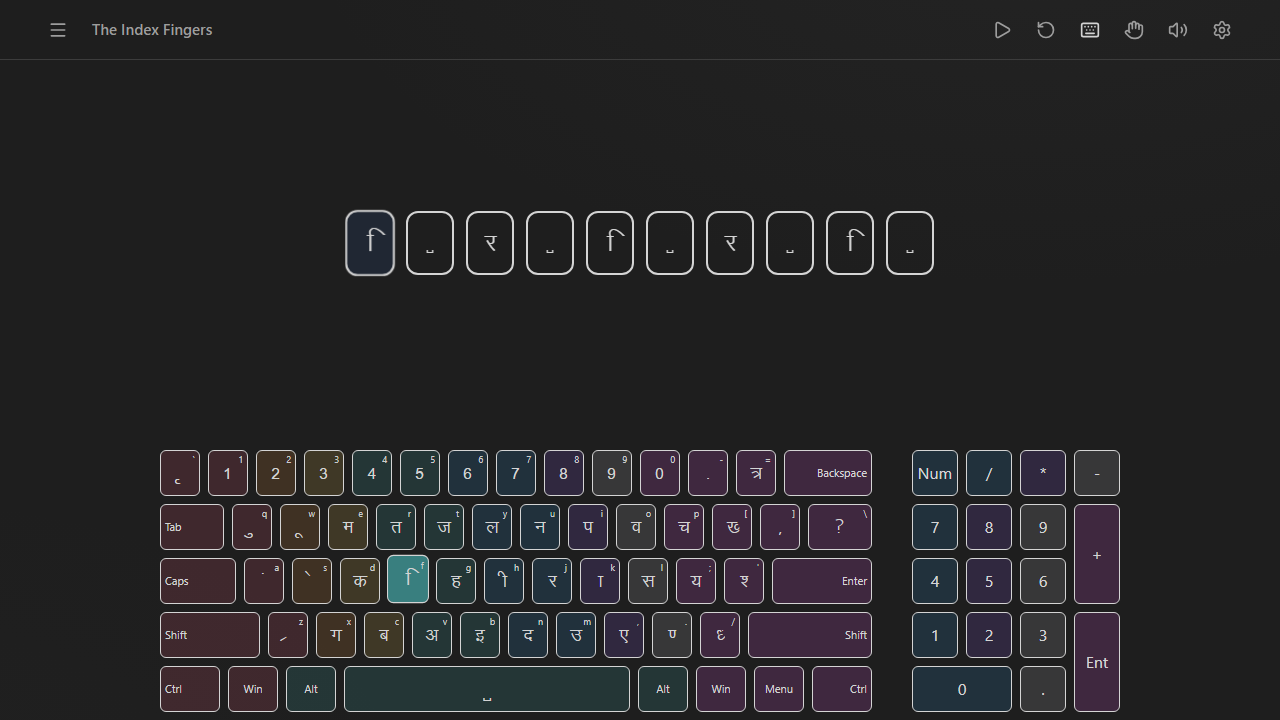
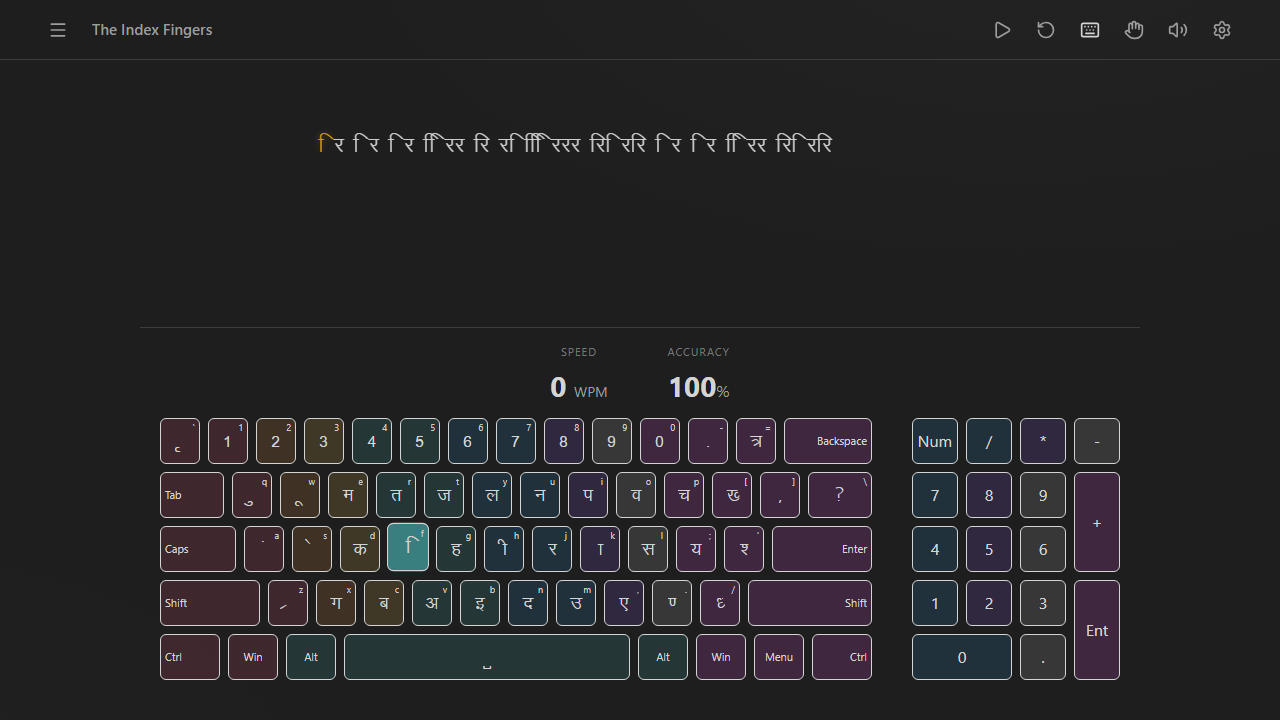
feat: refine typing area dimensions, timer, and layout

diff --git a/src/App.jsx b/src/App.jsx
@@ -476,7 +476,7 @@ const SettingsView = () => {
 };
 
 const TypingSession = ({ lesson, onComplete, onNext, onPrev, onRestart, hasNext, hasPrev, onClose }) => {
-  const { engineState, stats, altCodeState } = useTypingEngine(lesson.text, krutidev010Layout);
+  const { engineState, stats, altCodeState, isIdle } = useTypingEngine(lesson.text, krutidev010Layout);
   const storeState = useAppStore();
   
   const [soundMenuOpen, setSoundMenuOpen] = React.useState(false);
@@ -584,34 +584,37 @@ const TypingSession = ({ lesson, onComplete, onNext, onPrev, onRestart, hasNext,
       </div>
 
       {/* Main Content Area */}
-      <div style={{ flex: 1, display: 'flex', flexDirection: 'column', alignItems: 'center', justifyContent: 'center', padding: '40px', minHeight: '400px' }} onClick={() => { setSoundMenuOpen(false); setSettingsMenuOpen(false); }}>
+      <div style={{ flex: 1, display: 'flex', flexDirection: 'column', alignItems: 'center', justifyContent: 'center', padding: '20px 40px 10px', minHeight: '300px' }} onClick={() => { setSoundMenuOpen(false); setSettingsMenuOpen(false); }}>
         
         {lesson?.type === 'box_practice' ? (
           <BoxExercise engineState={engineState} />
         ) : (
-          <div style={{ maxWidth: '800px', width: '100%', display: 'flex', justifyContent: 'center' }}>
-            <TypingArea engineState={engineState} />
-          </div>
-        )}
-         
-        {/* Live Speed + Accuracy inline */}
-        {lesson?.type !== 'box_practice' && (
-          <div style={{ display: 'flex', gap: '60px', marginTop: '60px', color: 'var(--text-muted)', fontFamily: 'var(--font-ui)' }}>
-             <div style={{ display: 'flex', flexDirection: 'column', alignItems: 'center', gap: '4px' }}>
-                <span style={{ textTransform: 'uppercase', letterSpacing: '1px', fontSize: '11px', opacity: 0.7 }}>Speed</span>
-                <span style={{ fontSize: '28px', color: 'var(--text-primary)', fontWeight: 'bold' }}>{stats.wpm} <span style={{ fontSize: '14px', color: 'var(--text-muted)', fontWeight: 'normal' }}>WPM</span></span>
-             </div>
-             <div style={{ display: 'flex', flexDirection: 'column', alignItems: 'center', gap: '4px' }}>
-                <span style={{ textTransform: 'uppercase', letterSpacing: '1px', fontSize: '11px', opacity: 0.7 }}>Accuracy</span>
-                <span style={{ fontSize: '28px', color: 'var(--text-primary)', fontWeight: 'bold' }}>{stats.accuracy}<span style={{ fontSize: '16px', color: 'var(--text-muted)', fontWeight: 'normal' }}>%</span></span>
-             </div>
+          <div style={{ maxWidth: '1000px', width: '100%', display: 'flex', flexDirection: 'column', alignItems: 'center' }}>
+            <div style={{ width: '100%' }}>
+              <TypingArea engineState={engineState} isIdle={isIdle} />
+            </div>
+            
+            {/* Border line */}
+            <div style={{ width: '100%', height: '1px', background: 'var(--border-soft)', marginTop: '20px', marginBottom: '15px' }} />
+            
+            {/* Live Speed + Accuracy inline */}
+            <div style={{ display: 'flex', gap: '60px', color: 'var(--text-muted)', fontFamily: 'var(--font-ui)' }}>
+               <div style={{ display: 'flex', flexDirection: 'column', alignItems: 'center', gap: '4px' }}>
+                  <span style={{ textTransform: 'uppercase', letterSpacing: '1px', fontSize: '11px', opacity: 0.7 }}>Speed</span>
+                  <span style={{ fontSize: '28px', color: 'var(--text-primary)', fontWeight: 'bold' }}>{stats.wpm} <span style={{ fontSize: '14px', color: 'var(--text-muted)', fontWeight: 'normal' }}>WPM</span></span>
+               </div>
+               <div style={{ display: 'flex', flexDirection: 'column', alignItems: 'center', gap: '4px' }}>
+                  <span style={{ textTransform: 'uppercase', letterSpacing: '1px', fontSize: '11px', opacity: 0.7 }}>Accuracy</span>
+                  <span style={{ fontSize: '28px', color: 'var(--text-primary)', fontWeight: 'bold' }}>{stats.accuracy}<span style={{ fontSize: '16px', color: 'var(--text-muted)', fontWeight: 'normal' }}>%</span></span>
+               </div>
+            </div>
           </div>
         )}
       </div>
       
       {/* Keyboard Area */}
       {storeState.showVirtualKeyboard && (
-        <div style={{ paddingBottom: '40px', display: 'flex', justifyContent: 'center', flexShrink: 0 }}>
+        <div style={{ paddingBottom: '20px', display: 'flex', justifyContent: 'center', flexShrink: 0 }}>
            <VirtualKeyboard layout={krutidev010Layout} engineState={engineState} altCodeState={altCodeState} />
         </div>
       )}

diff --git a/src/components/TypingArea.jsx b/src/components/TypingArea.jsx
@@ -2,7 +2,7 @@ import React, { useRef, useEffect } from 'react';
 import { motion } from 'framer-motion';
 import { useAppStore } from '../store/useAppStore';
 
-const TypingArea = ({ engineState }) => {
+const TypingArea = ({ engineState, isIdle }) => {
   const store = useAppStore();
   const { fontSize, showVirtualKeyboard, textAlign } = store;
   const activeCharRef = useRef(null);
@@ -75,6 +75,7 @@ const TypingArea = ({ engineState }) => {
                 ref={isActive ? activeCharRef : null}
                 style={{
                   ...styles.char,
+                  position: 'relative',
                   color: isActive ? '#eab308' : getCharColor(statusClass),
                   textShadow: isActive ? '0 0 8px rgba(250, 204, 21, 0.4)' : 'none',
                   backgroundColor: (isActive && char === ' ') ? 'rgba(250, 204, 21, 0.4)' : 'transparent',
@@ -85,6 +86,12 @@ const TypingArea = ({ engineState }) => {
                 animate={isError ? { x: [-2, 2, -2, 2, 0] } : (isActive ? { opacity: [1, 0.8, 1] } : {})}
                 transition={isError ? { duration: 0.3 } : (isActive ? { repeat: Infinity, duration: 1 } : {})}
               >
+                {isActive && isIdle && (
+                  <div style={{ position: 'absolute', bottom: '100%', left: '50%', transform: 'translateX(-50%)', marginBottom: '10px', background: 'var(--accent-blue)', color: '#fff', padding: '6px 12px', borderRadius: '6px', fontSize: '14px', fontWeight: 'bold', whiteSpace: 'nowrap', zIndex: 10, boxShadow: '0 4px 12px rgba(0,0,0,0.3)' }}>
+                    Start Typing
+                    <div style={{ position: 'absolute', top: '100%', left: '50%', transform: 'translateX(-50%)', borderTop: '6px solid var(--accent-blue)', borderLeft: '6px solid transparent', borderRight: '6px solid transparent' }} />
+                  </div>
+                )}
                 {char === ' ' ? '\u00A0' : char === '\n' ? '↵\n' : char}
               </motion.span>
             );
@@ -111,7 +118,10 @@ const TypingArea = ({ engineState }) => {
         className="no-scrollbar" 
         style={{
           ...styles.textContainer,
-          maxHeight: showVirtualKeyboard ? '160px' : '320px',
+          height: '6em', // 4 lines if line-height is 1.5em
+          lineHeight: '1.5em',
+          overflowY: 'hidden',
+          padding: '4px',
           textAlign: textAlign || 'center'
         }}
       >

diff --git a/src/hooks/useTypingEngine.js b/src/hooks/useTypingEngine.js
@@ -7,6 +7,7 @@ import { altCodesMap } from '../core/altCodesMap';
 export const useTypingEngine = (text, layout) => {
   const [engineState, setEngineState] = useState(null);
   const [stats, setStats] = useState({ wpm: 0, accuracy: 100, timeInSeconds: 0 });
+  const [isIdle, setIsIdle] = useState(false);
   const engineRef = useRef(null);
   const { soundEffects, errorSounds } = useAppStore();
 
@@ -16,6 +17,7 @@ export const useTypingEngine = (text, layout) => {
     
     engine.onStateChange = (state) => {
       setEngineState(state);
+      setIsIdle(false);
       if (state.status === 'running' || state.status === 'finished') {
         setStats(getTypingStats(state));
       }
@@ -40,10 +42,16 @@ export const useTypingEngine = (text, layout) => {
 
   useEffect(() => {
     let interval;
-    if (engineState?.status === 'running') {
+    if (engineState?.status === 'running' || engineState?.status === 'idle') {
       interval = setInterval(() => {
-        if (engineRef.current && engineRef.current.status === 'running') {
-          setStats(getTypingStats(engineRef.current.getState()));
+        if (engineRef.current && (engineRef.current.status === 'running' || engineRef.current.status === 'idle')) {
+          const state = engineRef.current.getState();
+          setStats(getTypingStats(state));
+          
+          const now = Date.now();
+          if ((now - (state.lastInteractionTime || now)) >= 8000) {
+            setIsIdle(true);
+          }
         }
       }, 500);
     }
@@ -144,7 +152,7 @@ export const useTypingEngine = (text, layout) => {
     };
   }, []);
 
-  return { engineState, stats, altCodeState, resetEngine: () => {
+  return { engineState, stats, altCodeState, isIdle, resetEngine: () => {
     // Basic reset logic by recreating the engine could go here
     // or handled by unmounting/remounting component
   }};

diff --git a/src/core/typingEngine.js b/src/core/typingEngine.js
@@ -18,7 +18,7 @@ export class TypingEngine {
     
     // Live timer properties
     this.totalActiveTimeMs = 0;
-    this.lastInteractionTime = null;
+    this.lastInteractionTime = Date.now();
     
     // Callbacks for UI updates
     this.onStateChange = null;
@@ -42,7 +42,7 @@ export class TypingEngine {
     const now = Date.now();
     if (this.status === 'running') {
       const timeSinceLast = now - (this.lastInteractionTime || now);
-      if (timeSinceLast < 3000) {
+      if (timeSinceLast < 8000) {
         this.totalActiveTimeMs += timeSinceLast;
       }
       this.lastInteractionTime = now;

diff --git a/src/core/statistics.js b/src/core/statistics.js
@@ -14,10 +14,10 @@ export const getTypingStats = (state) => {
   // calculate time from totalActiveTimeMs
   let ms = state.totalActiveTimeMs || 0;
   if (state.status === 'running') {
-    // add any pending time less than 3000ms
+    // add any pending time less than 8000ms
     const now = Date.now();
     const timeSinceLast = now - (state.lastInteractionTime || now);
-    if (timeSinceLast < 3000) {
+    if (timeSinceLast < 8000) {
       ms += timeSinceLast;
     }
   }

diff --git a/get_screenshot.py b/get_screenshot.py
@@ -12,7 +12,7 @@ async def main():
             
             # Find and click the "Continue" button on the dashboard
             await page.click("#continue-btn")
-            await page.wait_for_timeout(2000)
+            await page.wait_for_timeout(9000)
             
             await page.screenshot(path="screenshot3.png")
             print("Screenshot saved to screenshot3.png")
